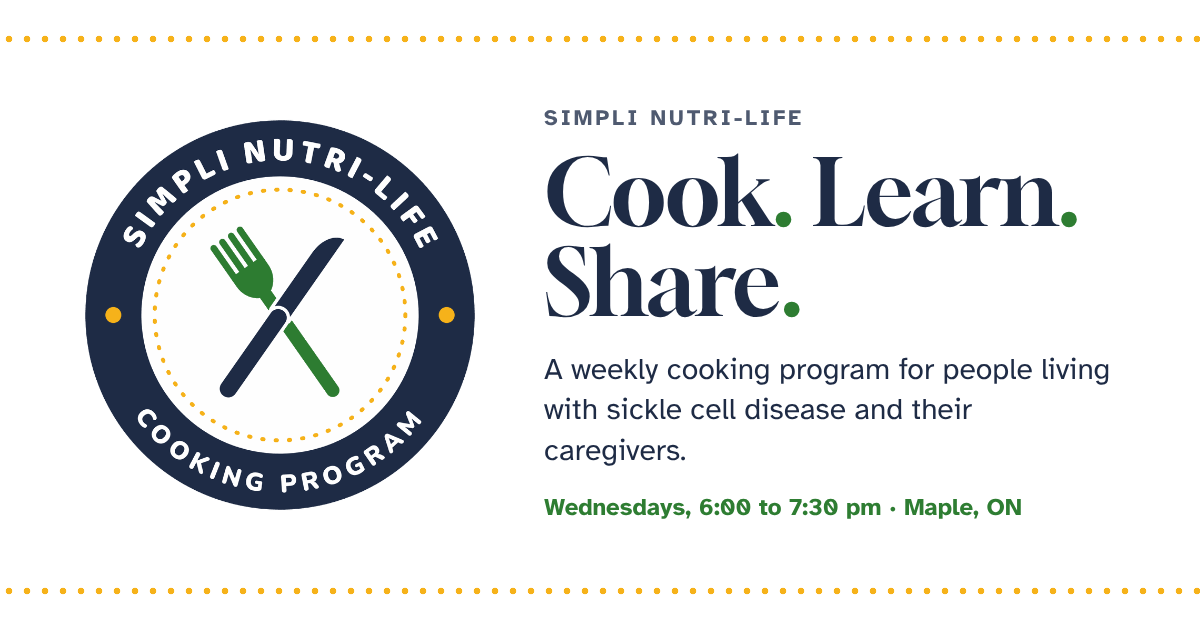
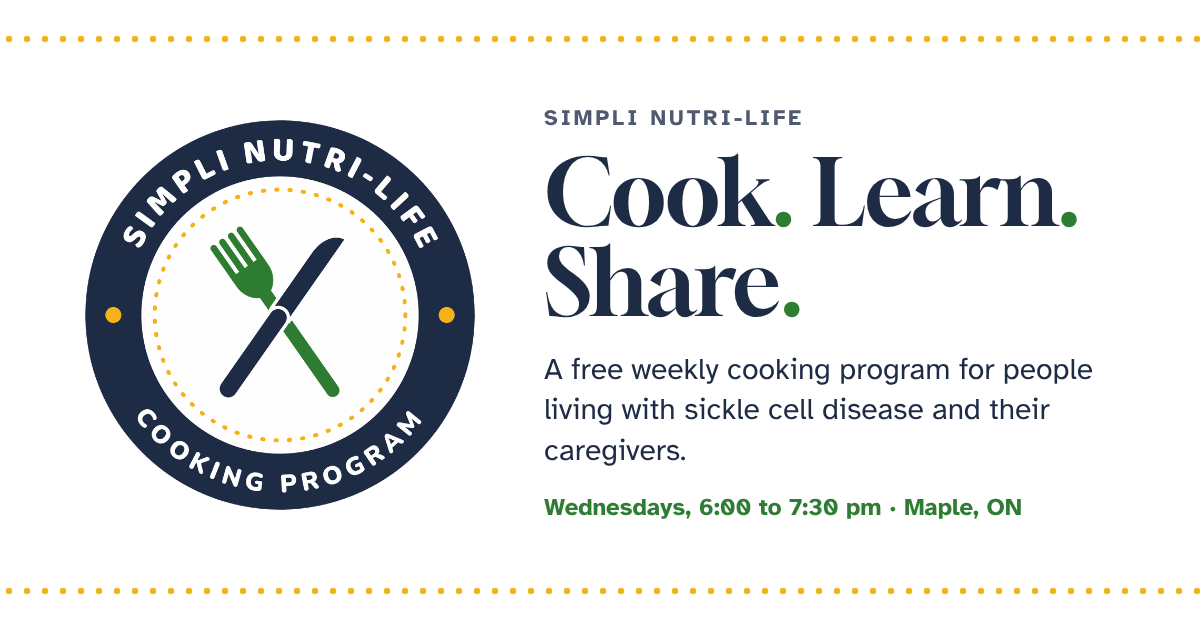
Add FAQ section and mark the program as free
Ten answers from the program team, a free-parking and accessibility line in Visit,
and a broader Who it's for line.

Claude-Session: https://claude.ai/code/session_01GpaXb5vt4bwi4P1Lh2izpn

Changed region(s): [[0.4317, 0.573, 0.925, 0.6937], [0.4625, 0.573, 0.4933, 0.6032]]

diff --git a/index.html b/index.html
@@ -4,12 +4,12 @@
 <meta charset="utf-8">
 <meta name="viewport" content="width=device-width, initial-scale=1">
 <title>Simpli Nutri-Life Cooking Program</title>
-<meta name="description" content="A weekly cooking and nutrition program for people living with sickle cell disease and their caregivers, at Vaughan Community Health Centre in Maple, Ontario.">
+<meta name="description" content="A free weekly cooking and nutrition program for people living with sickle cell disease and their caregivers, at Vaughan Community Health Centre in Maple, Ontario.">
 <link rel="canonical" href="https://simplinutrilife.com/">
 <meta property="og:type" content="website">
 <meta property="og:site_name" content="Simpli Nutri-Life">
 <meta property="og:title" content="Simpli Nutri-Life Cooking Program">
-<meta property="og:description" content="A weekly cooking and nutrition program for people living with sickle cell disease and their caregivers, at Vaughan Community Health Centre in Maple, Ontario.">
+<meta property="og:description" content="A free weekly cooking and nutrition program for people living with sickle cell disease and their caregivers, at Vaughan Community Health Centre in Maple, Ontario.">
 <meta property="og:url" content="https://simplinutrilife.com/">
 <meta property="og:image" content="https://simplinutrilife.com/share-image.png">
 <meta property="og:image:width" content="1200">
@@ -238,6 +238,19 @@ h2{font-family:var(--display);font-weight:400;font-size:var(--fs-xl);line-height
 .badge{position:absolute;top:10px;left:10px;padding:4px 10px;border-radius:999px;background:var(--scrim);color:var(--on-scrim);font-size:var(--fs-xs);font-weight:700;pointer-events:none}
 .cap{font-size:var(--fs-sm);color:var(--muted);line-height:1.4;margin:0}
 
+/* faq */
+.faq{max-width:900px;border-bottom:0;position:relative;padding-bottom:8px}
+.faq::after{content:"";position:absolute;inset:auto 0 0;height:8px;background:radial-gradient(circle,var(--dots) 2px,transparent 2.6px) 0 50%/14px 8px repeat-x}
+.faq details{position:relative}
+.faq details::before{content:"";position:absolute;inset:0 0 auto;height:8px;background:radial-gradient(circle,var(--dots) 2px,transparent 2.6px) 0 50%/14px 8px repeat-x}
+.faq summary{list-style:none;cursor:pointer;display:flex;align-items:center;justify-content:space-between;gap:16px;padding:24px 0 20px;font-family:var(--display);font-weight:400;font-size:clamp(1.25rem,2.4vw,1.625rem);line-height:1.2;text-wrap:balance}
+.faq summary::-webkit-details-marker{display:none}
+.faq summary::after{content:"";width:38px;height:38px;flex:none;border-radius:50%;border:2px solid var(--fg);background:linear-gradient(var(--fg),var(--fg)) center/14px 2px no-repeat,linear-gradient(var(--fg),var(--fg)) center/2px 14px no-repeat;transition:transform .25s ease,background-color .2s}
+.faq details[open] summary::after{background:linear-gradient(var(--fg),var(--fg)) center/14px 2px no-repeat;transform:rotate(180deg)}
+.faq summary:hover::after{background-color:var(--panel)}
+.faq .ans{display:grid;gap:10px;padding:0 54px 24px 0;max-width:64ch;font-size:var(--fs-md);color:var(--muted)}
+.faq .ans a{font-weight:700;color:var(--fg);text-decoration:underline 2px;text-decoration-color:var(--dots);text-underline-offset:4px;overflow-wrap:anywhere}
+
 /* resources */
 .res{list-style:none;margin:0;padding:0;display:grid;grid-template-columns:repeat(auto-fill,minmax(min(100%,260px),1fr));gap:16px}
 .rs{background:var(--card);border:2px solid var(--rule);border-radius:22px;padding:clamp(20px,2.4vw,28px);display:flex;flex-direction:column;gap:10px;min-width:0}
@@ -356,6 +369,7 @@ h2{font-family:var(--display);font-weight:400;font-size:var(--fs-xl);line-height
   .about,.reg{grid-template-columns:1fr}
 }
 @media (max-width:760px){
+  .faq .ans{padding-right:0}
   .brand-name{font-size:1.125rem}
   #heroSlot{width:min(52vw,220px)}
   .facts{grid-template-columns:1fr;gap:16px}
@@ -413,6 +427,7 @@ h2{font-family:var(--display);font-weight:400;font-size:var(--fs-xl);line-height
           <li><a href="#photos">Photos</a></li>
           <li><a href="#menu">Recipes</a></li>
           <li><a href="#visit">Visit</a></li>
+          <li><a href="#faq">FAQ</a></li>
           <li><a href="#resources">Resources</a></li>
         </ul>
       </nav>
@@ -433,7 +448,7 @@ h2{font-family:var(--display);font-weight:400;font-size:var(--fs-xl);line-height
         <div id="heroSlot"><span class="logo roll" role="img" aria-label="Simpli Nutri-Life Cooking Program logo"></span></div>
       </div>
       <div class="hero-foot">
-        <p class="lede">A weekly cooking and nutrition program for people living with sickle cell disease and their caregivers.</p>
+        <p class="lede">A free weekly cooking and nutrition program for people living with sickle cell disease and their caregivers.</p>
         <div class="cta">
           <a class="btn btn-solid" href="#register">Register</a>
           <a class="btn btn-line" href="#menu">See what we cook</a>
@@ -590,10 +605,62 @@ h2{font-family:var(--display);font-weight:400;font-size:var(--fs-xl);line-height
         <div class="vi">
           <p class="eyebrow">Where</p>
           <p class="v">Vaughan Community Health Centre<br>9401 Jane St, Suite 106 (Entrance A)<br>Maple, ON L6A 4H7</p>
+          <p>Free parking. Wheelchair accessible.</p>
           <a class="btn btn-line btn-sm" href="https://www.google.com/maps/search/?api=1&amp;query=9401%20Jane%20St%20Suite%20106%20Maple%20ON%20L6A%204H7" target="_blank" rel="noopener">Open in Google Maps</a>
         </div>
         <div class="vi"><p class="eyebrow">Getting there</p><p class="v">YRT transportation support is provided. Mention it when you register.</p></div>
-        <div class="vi"><p class="eyebrow">Who it's for</p><p class="v">People living with sickle cell disease, plus caregivers and family.</p></div>
+        <div class="vi"><p class="eyebrow">Who it's for</p><p class="v">Everyone. Built for people living with sickle cell and their caregivers, and open to all.</p></div>
+      </div>
+    </div>
+  </section>
+
+  <section class="sec" id="faq">
+    <div class="wrap">
+      <div class="sec-head">
+        <p class="eyebrow">FAQ</p>
+        <h2>Good to know<span class="dot">.</span></h2>
+      </div>
+      <div class="faq">
+        <details>
+          <summary>Does it cost anything?</summary>
+          <div class="ans"><p>No. Simpli Nutri-Life is free for everyone.</p></div>
+        </details>
+        <details>
+          <summary>Who can come?</summary>
+          <div class="ans"><p>Everyone is welcome, at any age. If you're under 18, we recommend coming with an adult.</p></div>
+        </details>
+        <details>
+          <summary>Do I have to sign up for all five weeks?</summary>
+          <div class="ans"><p>No. Register for all five weeks or one week at a time, whichever works for you. You can join partway through, too.</p></div>
+        </details>
+        <details>
+          <summary>Is there a limit on spots?</summary>
+          <div class="ans"><p>No. There's room for everyone.</p></div>
+        </details>
+        <details>
+          <summary>What should I bring?</summary>
+          <div class="ans"><p>Nothing. Come a little hungry and ready to learn something new.</p></div>
+        </details>
+        <details>
+          <summary>I have allergies or dietary needs. What should I do?</summary>
+          <div class="ans"><p>Let us know at least 24 hours before the session and we'll plan something for you. That includes allergies, vegetarian, nut-free and halal.</p><p>Email Zaynah at <a href="mailto:zcadogan@vaughanchc.com">zcadogan@vaughanchc.com</a> or call <a href="tel:+19053038490,2687">905-303-8490 ext. 2687</a>.</p></div>
+        </details>
+        <details>
+          <summary>How does the YRT transportation support work?</summary>
+          <div class="ans"><p>We provide YRT bus passes to participants who need them. Pick yours up when you arrive, and mention it when you register.</p></div>
+        </details>
+        <details>
+          <summary>Is there parking? Is it wheelchair accessible?</summary>
+          <div class="ans"><p>Yes to both. Parking is free, and the centre is wheelchair accessible. Use Entrance A for Suite 106.</p></div>
+        </details>
+        <details>
+          <summary>What if I'm feeling unwell or having a pain crisis?</summary>
+          <div class="ans"><p>Medical staff are on site during every session, and the hospital is a short distance away. Tell a facilitator right away if you start to feel unwell.</p><p>If you're not up to coming, rest. You can come back any week. In an emergency, call 911.</p></div>
+        </details>
+        <details>
+          <summary>Will there be another run after November 25?</summary>
+          <div class="ans"><p>Yes, we're planning one, and we hope to grow it. Follow <a href="https://www.instagram.com/simplinutrilife/" target="_blank" rel="noopener">@simplinutrilife</a> on Instagram for the next dates.</p></div>
+        </details>
       </div>
     </div>
   </section>
